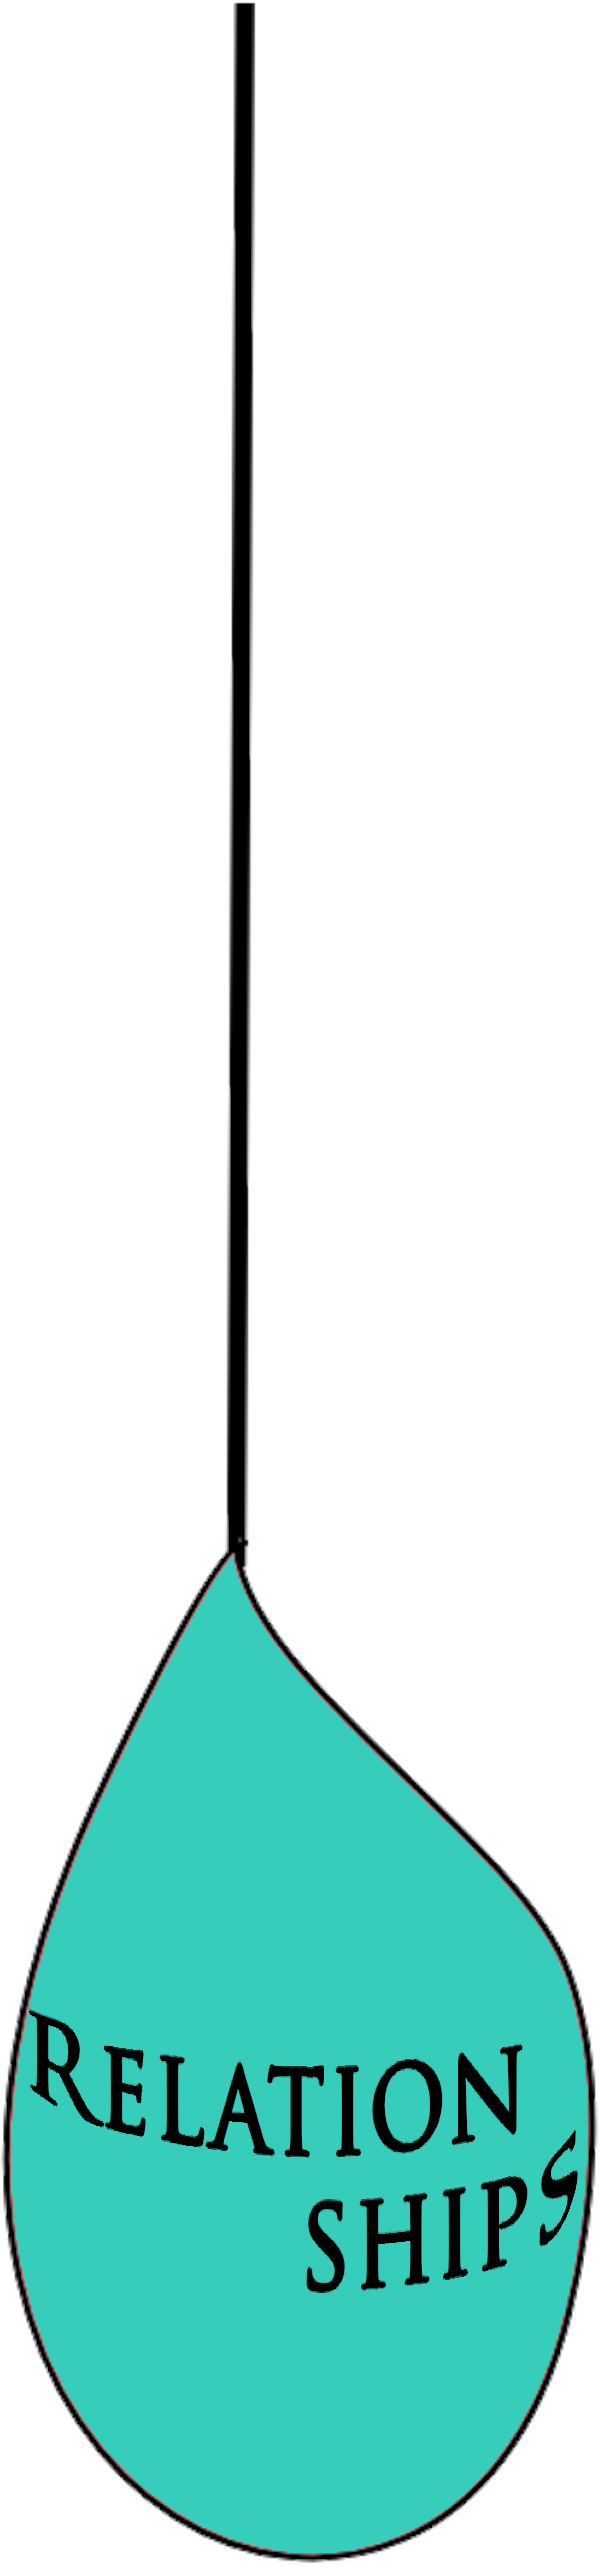
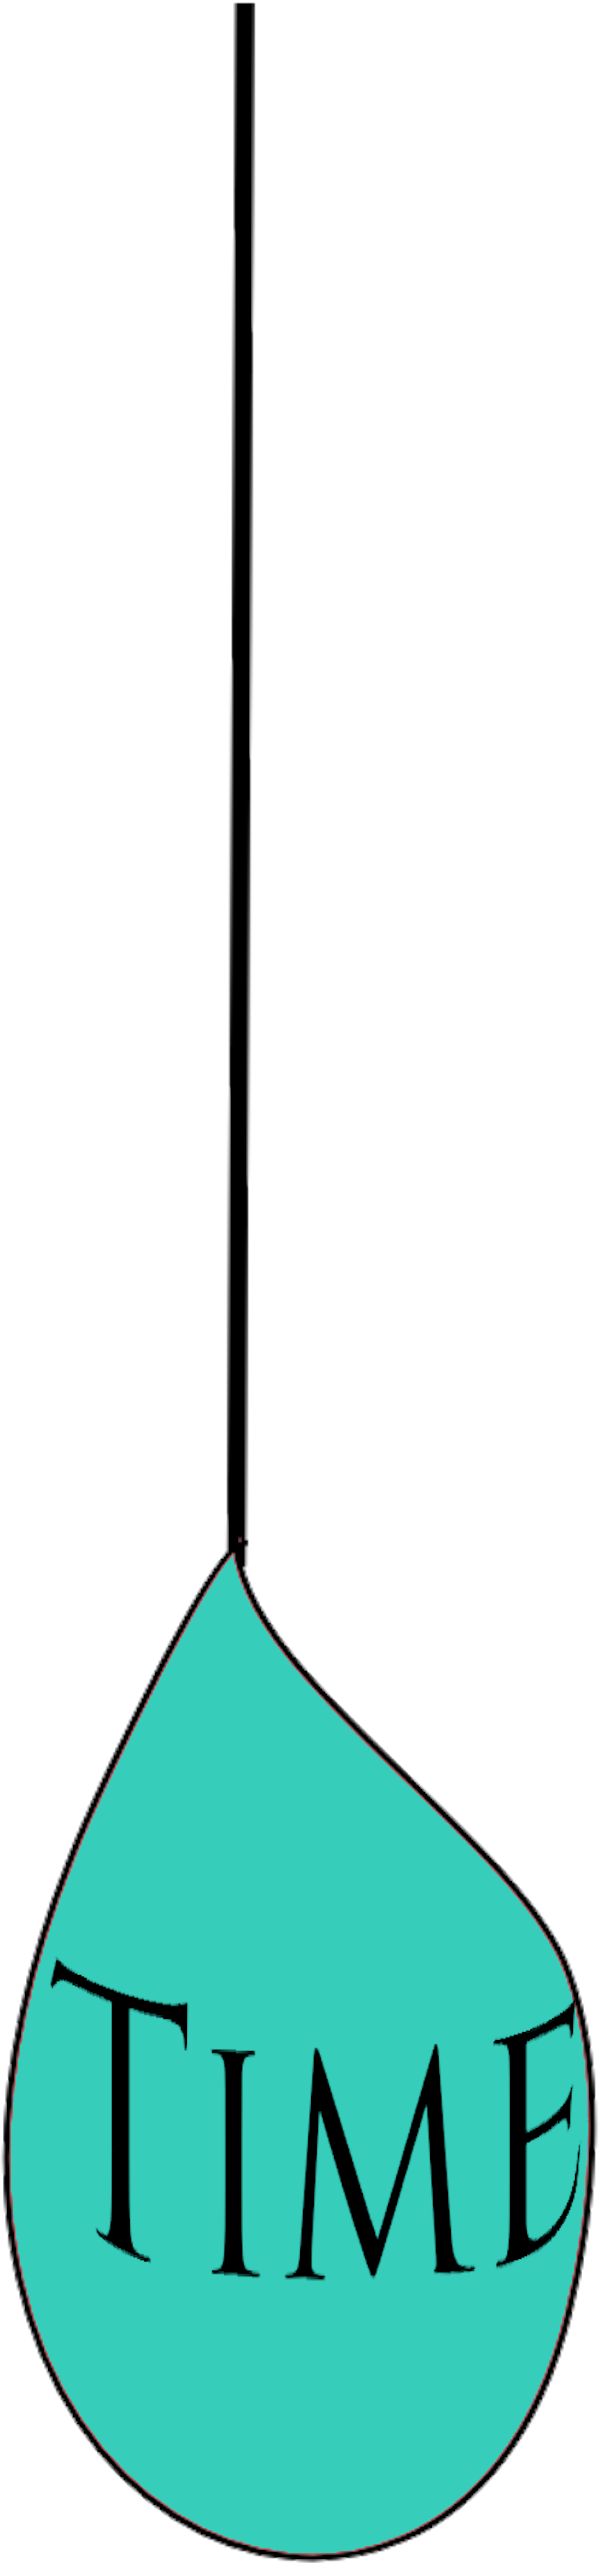
in progress
(updating all the offline work done over travels)
-- changing the topic to Time, adding text to empty pages, and starting to reorganize style elements into css and keep HTML only text

Changed region(s): [[0.45, 0.7794, 0.96, 0.9041], [0.06, 0.7482, 0.45, 0.9041]]

diff --git a/docs/Time.html b/docs/Time.html
@@ -17,7 +17,7 @@
             <a href="index.html">Home</a>
             <a href="Me.html">Why should you listen to me?</a>
             <a href="Grades.html">Grades</a>
-            <a href="Relationships.html">Relationships</a>
+            <a href="Time.html">Relationships</a>
             <a href="Passion.html">Passion</a>
             <a href="Clubs.html">Clubs and Organizations</a>
           </div>
@@ -52,9 +52,27 @@
 
       <div class="bodycontent">
 
-        <h2 align="center"> "I don't have time to talk to you now, mom!" </h2>
+        <p> Time... ah, how we wish we had more when we we're cramming for an exam the night before, but wish it
+          passed quicker in class.
+        </p>
+        <p> Truth of the matter is that we all have <strong> the same amount </strong> - 24 hours in a day.
+          So, how do some people manage this so well? What are their secrets?
+        </p>
 
-        
+        <p> Below are two clocks- one portrays the 12-hour timespan (midday to midnight) of a good engineering student
+          and the other of one who is barely scraping by in their class. Click on the different numbers to discover how
+          their days differ.
+        </p>
+
+        <p> It's all about ...  <strong> <u> priorities </u> </strong>. That's right folks- you heard it here. Apparently,
+          reading a storybook until 4am on a weeknight because you're hooked with the storyline, somehow affects your ability to
+          prepare for an upcoming quiz (example taken from life experience). That doesn't mean always prioritize classes-
+          you're mental wellbeing should take precedence sometimes, but applying the 80-20 rule implies that
+          80% of your efforts must be toward your goal (in this case, to do well in classes) in order to achieve success.
+        </p>
+
+        <p>
+        </p>
 
       </div>
 

diff --git a/docs/index.html b/docs/index.html
@@ -17,7 +17,7 @@
             <a href="index.html">Home</a>
             <a href="Me.html">Why should you listen to me?</a>
             <a href="Grades.html">Grades</a>
-            <a href="Relationships.html">Relationships</a>
+            <a href="Time.html">Time Management</a>
             <a href="Passion.html">Passion</a>
             <a href="Clubs.html">Clubs and Organizations</a>
           </div>
@@ -66,7 +66,7 @@
         <!-- Footer-->
         <div class='footer-container'>
           <div class='header'>
-      
+
           </div>
         </div>
 

diff --git a/docs/Clubs.html b/docs/Clubs.html
@@ -17,7 +17,7 @@
             <a href="index.html">Home</a>
             <a href="Me.html">Why should you listen to me?</a>
             <a href="Grades.html">Grades</a>
-            <a href="Relationships.html">Relationships</a>
+            <a href="Time.html">Relationships</a>
             <a href="Passion.html">Passion</a>
             <a href="Clubs.html">Clubs and Organizations</a>
           </div>

diff --git a/docs/Grades.html b/docs/Grades.html
@@ -17,7 +17,7 @@
             <a href="index.html">Home</a>
             <a href="Me.html">Why should you listen to me?</a>
             <a href="Grades.html">Grades</a>
-            <a href="Relationships.html">Relationships</a>
+            <a href="Time.html">Relationships</a>
             <a href="Passion.html">Passion</a>
             <a href="Clubs.html">Clubs and Organizations</a>
           </div>

diff --git a/docs/Me.html b/docs/Me.html
@@ -17,7 +17,7 @@
             <a href="index.html">Home</a>
             <a href="Me.html">Why should you listen to me?</a>
             <a href="Grades.html">Grades</a>
-            <a href="Relationships.html">Relationships</a>
+            <a href="Time.html">Relationships</a>
             <a href="Passion.html">Passion</a>
             <a href="Clubs.html">Clubs and Organizations</a>
           </div>

diff --git a/docs/Passion.html b/docs/Passion.html
@@ -17,7 +17,7 @@
             <a href="index.html">Home</a>
             <a href="Me.html">Why should you listen to me?</a>
             <a href="Grades.html">Grades</a>
-            <a href="Relationships.html">Relationships</a>
+            <a href="Time.html">Relationships</a>
             <a href="Passion.html">Passion</a>
             <a href="Clubs.html">Clubs and Organizations</a>
           </div>
